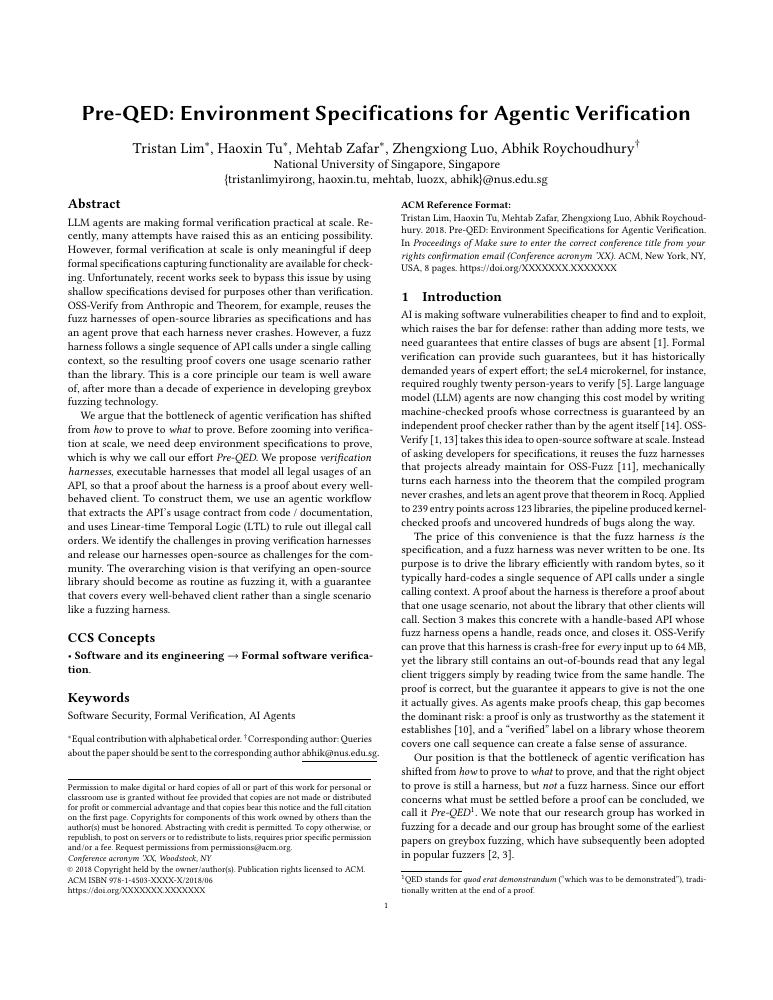
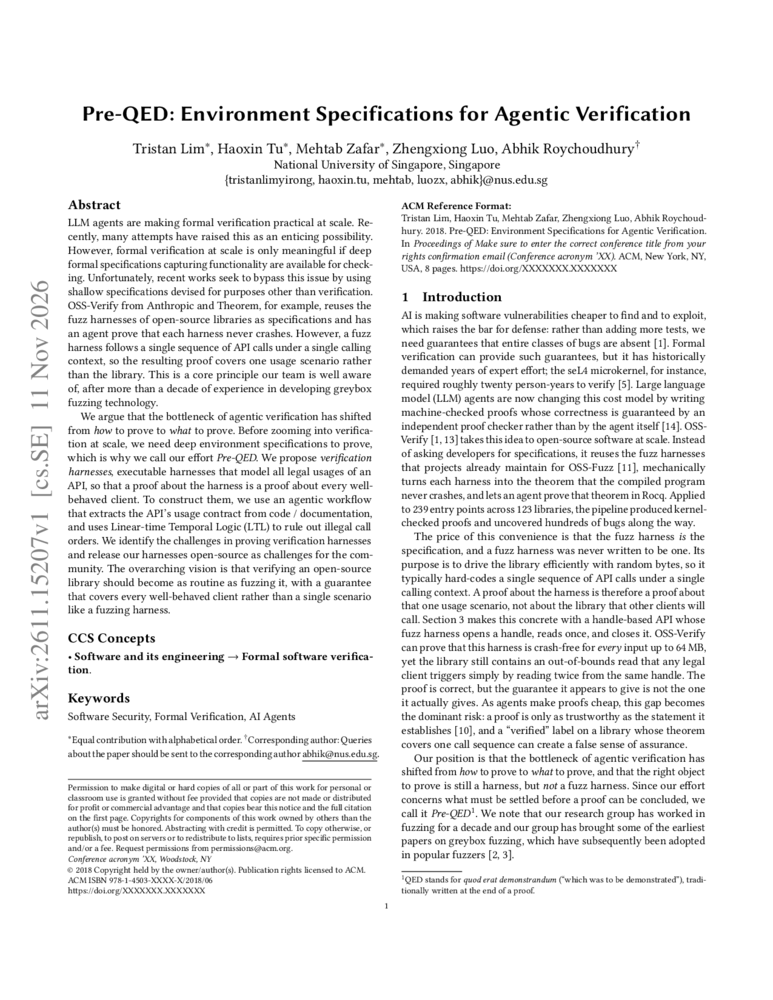
Update paper link

Changed region(s): [[0.0931, 0.093, 0.9314, 0.899], [0.031, 0.279, 0.0621, 0.496], [0.031, 0.527, 0.0621, 0.713]]

diff --git a/index.html b/index.html
@@ -30,10 +30,10 @@
   title  = {Pre-QED: Environment Specifications for Agentic Verification},
   author = {Lim, Tristan and Tu, Haoxin and Zafar, Mehtab and Luo, Zhengxiong and Roychoudhury, Abhik},
   year   = {2026},
-  url    = {https://pre-qed.github.io/pre-qed.pdf}
+  url    = {https://arxiv.org/pdf/2611.15207}
 }</pre>
         </div>
-        <a class="paper-preview" href="pre-qed.pdf" target="_blank" rel="noopener" aria-label="Read the paper PDF (opens in a new tab)">
+        <a class="paper-preview" href="https://arxiv.org/pdf/2611.15207" target="_blank" rel="noopener" aria-label="Read the paper PDF (opens in a new tab)">
           <img src="paper-preview.png" alt="First page of Pre-QED: Environment Specifications for Agentic Verification">
           <span>Read the paper ↗</span>
         </a>
